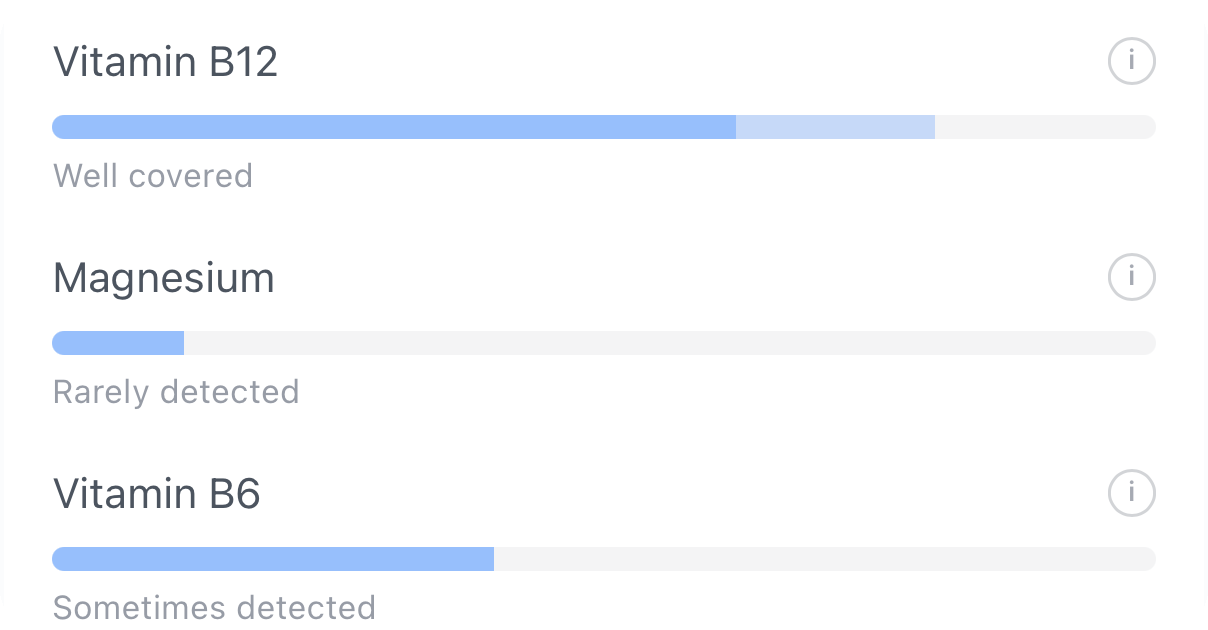
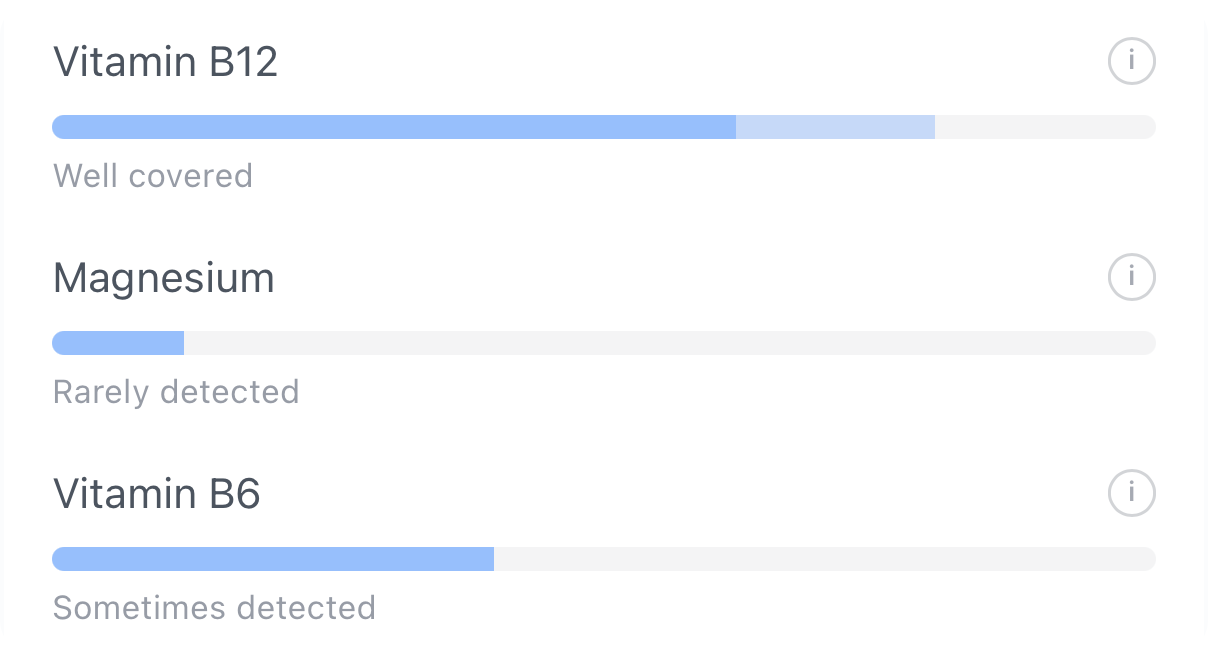
micronutrients: restore the bottom padding the crop had eaten

diff --git a/app/page.tsx b/app/page.tsx
@@ -275,7 +275,7 @@ export default function Home() {
               </Parallax>
               <Parallax speed={20}>
                 <Reveal delay={0.12}>
-                  <UiCard src="/ui/micronutrients.png" alt="Micronutrients grouped by what they do for you" width={1208} height={630} tilt={1} lift="md" />
+                  <UiCard src="/ui/micronutrients.png" alt="Micronutrients grouped by what they do for you" width={1208} height={656} tilt={1} lift="md" />
                 </Reveal>
               </Parallax>
             </div>
